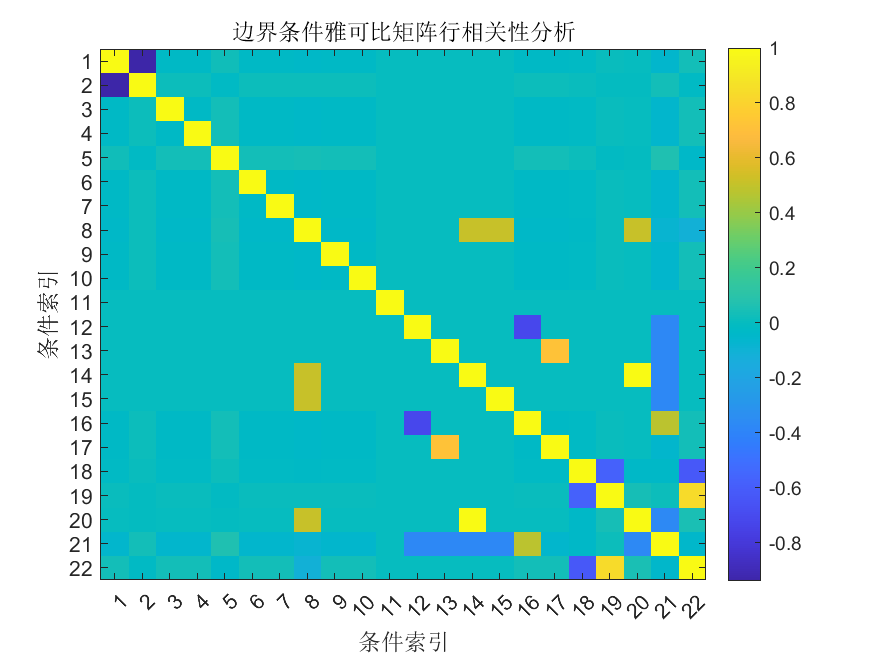
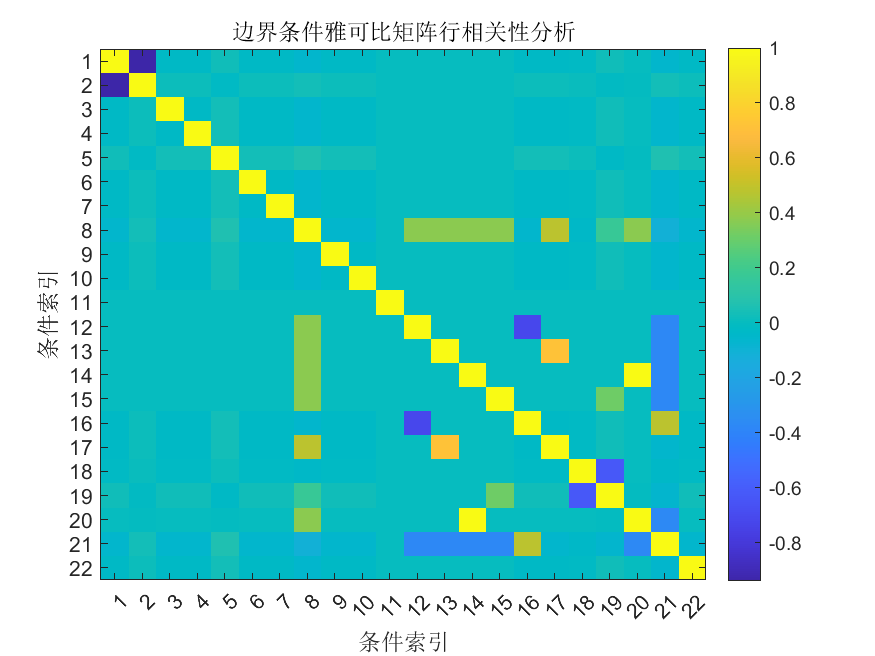
0718

diff --git a/solve_vaporization_bvp.m b/solve_vaporization_bvp.m
@@ -51,7 +51,7 @@ global GLOBAL_BVP_DEPS;
     m_dot_phys_guess = Q_rad / L_v;
     
     % 如果计算出的值太小，使用一个合理的最小值
-    min_m_dot = 1e-7; % 增大最小值，提高数值稳定性
+    min_m_dot = 1e-10; % 增大最小值，提高数值稳定性
     if m_dot_phys_guess < min_m_dot
         m_dot_phys_guess = min_m_dot;
     end
@@ -60,23 +60,22 @@ global GLOBAL_BVP_DEPS;
     p_guess_nd(1) = r_f_phys_guess / L_char; % r_f*
     p_guess_nd(2) = m_dot_phys_guess / (4 * pi * L_char * params.rho_D_gas); % Pe_m (佩克莱数)
     
+    %  fprintf('  > 猜测质量流率分子: %.3e , 无量纲分母: %.3e \n', m_dot_phys_guess, 4 * pi * L_char * params.rho_D_gas);
     % 使用固定的外部边界
     r_inf_nd = r_inf_phys_fixed / L_char; % 使用当前半径r_p进行无量纲化
-    
-    % 修改: 简化网格结构，确保区域边界的明确定义
-    % 使用更简化但清晰的网格，遵循bvp4c的多区域配置协议
-    
-    % 区域1：颗粒表面到火焰面
-    r1_points = linspace(1, p_guess_nd(1), 8); % 均匀分布点
 
-    % 区域2：火焰面到远场边界
-    r2_points = linspace(p_guess_nd(1), r_inf_nd, 8); % 均匀分布点
+    %%%%%%网格
+        % 区域1：颗粒表面到火焰面
+        r1_points = linspace(1, p_guess_nd(1), 8); % 均匀分布点
 
-    % 确保使用相同的精确火焰点值
-    r_f_exact = p_guess_nd(1);  % 使用精确的参数值，而不是可能受精度影响的数组值
+        % 区域2：火焰面到远场边界
+        r2_points = linspace(p_guess_nd(1), r_inf_nd, 8); % 均匀分布点
 
-    % 关键：明确地在数组中包含两个完全相同的火焰点，确保bvp4c识别为多区域
-    x_mesh_nd = [r1_points(1:end-1), r_f_exact, r_f_exact, r2_points(2:end)];
+        % 确保使用相同的精确火焰点值
+        r_f_exact = p_guess_nd(1);  % 使用精确的参数值，而不是可能受精度影响的数组值
+
+        % 关键：明确地在数组中包含两个完全相同的火焰点，确保bvp4c识别为多区域
+        x_mesh_nd = [r1_points(1:end-1), r_f_exact, r_f_exact, r2_points(2:end)];
 
     % 验证重复点是否完全相同
     fprintf('重复点检查: r_f_nd(1) == r_f_nd(2): %d\n', x_mesh_nd(8) == x_mesh_nd(9));
@@ -273,9 +272,9 @@ function res = bc_func_nd(ya, yb, p_nd)
 
     % 从全局设置读取松弛级别，如果未设置则使用默认值
     if isfield(deps, 'relaxation_level')
-        base_relaxation = deps.relaxation_level;
-    else
-        base_relaxation = 0.8; % 默认松弛因子
+            base_relaxation = deps.relaxation_level;
+        else
+            base_relaxation = 0.8; % 默认松弛因子
     end
     
     % 为不同类型的条件设置不同的松弛级别
@@ -354,11 +353,9 @@ function res = bc_func_nd(ya, yb, p_nd)
     % (共5个条件)
     res(6) = relaxation * (y_at_rinf_nd(1) - deps.params.ambient_temperature / deps.T_char); % BC 6: 温度等于环境温度
     res(7) = relaxation * (y_at_rinf_nd(3) - 1.0); % BC 7: CO2质量分数为1 (纯CO2环境)
-    % BC 8: 火焰面处产物质量分数之和为1（替换原来的远场Mg=0条件，避免与火焰面条件冗余）
-    % 这符合Burke-Schumann模型，火焰面处反应物完全转化为产物
-    % 左侧火焰面产物质量分数
-    y_left_products_sum = y_at_rf_left_nd(4) + y_at_rf_left_nd(5); % CO + MgO
-    res(8) = relaxation * (y_left_products_sum - 1.0);
+    
+    % BC 8: 火焰面左侧所有组分质量分数之和为1（替换为更基本的物理约束，避免与元素守恒冗余）
+    res(8) = relaxation * (sum(y_at_rf_left_nd(2:5)) - 1.0);
     res(9) = relaxation * y_at_rinf_nd(4); % BC 9: CO质量分数为0
     res(10) = relaxation * y_at_rinf_nd(5); % BC 10: MgO质量分数为0
 
@@ -366,7 +363,7 @@ function res = bc_func_nd(ya, yb, p_nd)
     
     % (3a) 状态连续性 (5个条件) - 始终使用松弛因子
     flame_relaxation = relaxation; % 使用全局松弛因子
-    for i = 1:5
+        for i = 1:5
         res(10+i) = flame_relaxation * (y_at_rf_left_nd(i) - y_at_rf_right_nd(i)); 
     end
     
@@ -412,20 +409,30 @@ function res = bc_func_nd(ya, yb, p_nd)
     % 计算CO的净通量（修复J_co_net未定义问题）
     J_co_net = J_co_right_nd - J_co_left_nd;
 
-    % 保留关键的摩尔通量平衡 (条件19-20)
-    res(19) = chem_relaxation * (J_mg_flame/mw.Mg.molar_mass - J_co2_flame/mw.CO2.molar_mass);
-    res(20) = chem_relaxation * (J_mg_flame/mw.Mg.molar_mass - J_co_net/mw.CO.molar_mass);
+    % 添加验证
+    if sign(J_co_left_nd) == sign(J_co_right_nd)
+        fprintf('警告: CO在火焰面两侧通量方向相同，J_left=%.3e, J_right=%.3e\n', J_co_left_nd, J_co_right_nd);
+    end
 
-    % 火焰面右侧所有组分和为1
-    res(21) = weak_relaxation * (y_at_rf_right_nd(2) + y_at_rf_right_nd(3) + y_at_rf_right_nd(4) + y_at_rf_right_nd(5) - 1.0);
-
-    % 替换为元素守恒条件：Mg原子在火焰面两侧的守恒
-    % Mg的总摩尔通量 = MgO的总摩尔通量 (基于元素守恒)
+    % 替换为元素守恒条件 
+    % 镁元素守恒：进入的Mg = 出去的MgO中的Mg
     J_mg_total = J_mg_flame;  % 左侧Mg通量
-    J_mgo_total = J_mgo_left_nd + J_mgo_right_nd;  % 两侧MgO通量之和
-    res(22) = weak_relaxation * (J_mg_total/mw.Mg.molar_mass - J_mgo_total/(mw.MgO.molar_mass/mw.Mg.molar_mass));
+    % 修正MgO通量计算，考虑方向性（净流出 = 右侧 - 左侧）
+    J_mgo_net = J_mgo_right_nd - J_mgo_left_nd;  % 两侧MgO净通量，与CO通量计算方式一致
+    res(19) = chem_relaxation * (J_mg_total/mw.Mg.molar_mass - J_mgo_net/(mw.MgO.molar_mass/mw.Mg.molar_mass));
+    
+    % 碳元素守恒：进入的CO2中的C = 出去的CO中的C
+    res(20) = chem_relaxation * (J_co2_flame/mw.CO2.molar_mass - J_co_net/mw.CO.molar_mass);
+    
+    % 替换为产物两侧扩散比例约束：假设产物向两侧扩散的摩尔比例相等
+    % 计算CO向右侧扩散的比例（占总CO通量的比例）
+    res(21) = weak_relaxation * (J_co_right_nd + J_co_left_nd);
+    
+    % 替换为远场温度梯度趋于零条件
+    % 这是一个物理上合理的约束：远离热源区域，温度梯度应该趋于稳定
+    res(22) = weak_relaxation * y_at_rinf_nd(6);
 
-end 
+end
 
 function y_nd = initial_guess_func_nd(x, region)
     global GLOBAL_BVP_DEPS;
@@ -763,15 +770,40 @@ function analyze_jacobian(bcfun, solinit, p_nd)
         if rank_Jy < n_eqs
             fprintf('检测到 %d 个线性相关的行!\n', n_eqs - rank_Jy);
             
-            [~, R, E] = qr(Jy');
-            small_diag = find(abs(diag(R)) < tol * max(abs(diag(R))));
-            dependent_rows = E(small_diag);
+            % 使用SVD方法更稳健地识别线性相关行
+            [U, S, ~] = svd(Jy);
+            s = diag(S);
             
-            fprintf('可能线性相关的边界条件:\n');
-            for i = 1:length(dependent_rows)
-                fprintf('  - 条件 #%d\n', dependent_rows(i));
+            % 找到接近零的奇异值对应的左奇异向量
+            small_sv_idx = find(abs(s) < tol * max(abs(s)));
+            
+            % 分析每个线性相关的组合
+            fprintf('可能线性相关的边界条件组合:\n');
+            for i = 1:length(small_sv_idx)
+                % 获取对应的左奇异向量，它表示线性组合系数
+                v = U(:, small_sv_idx(i));
+                
+                % 找出贡献最大的几个条件
+                [~, idx] = sort(abs(v), 'descend');
+                top_contributors = idx(1:min(5, length(idx))); % 选择前5个贡献最大的条件
+                
+                fprintf('  组合 #%d 主要贡献条件: ', i);
+                for j = 1:length(top_contributors)
+                    cond_idx = top_contributors(j);
+                    fprintf('#%d(系数=%.3f) ', cond_idx, v(cond_idx));
+                end
+                fprintf('\n');
+                
+                % 分析边界条件之间的关系
+                if length(top_contributors) >= 2
+                    main_cond = top_contributors(1);
+                    second_cond = top_contributors(2);
+                    ratio = v(second_cond) / v(main_cond);
+                    fprintf('    条件 #%d 约等于 %.3f * 条件 #%d\n', second_cond, -ratio, main_cond);
+                end
             end
             
+            % 仍然保留原来的相关性图分析
             figure;
             corr_matrix = corr(Jy');
             imagesc(corr_matrix);
@@ -783,6 +815,25 @@ function analyze_jacobian(bcfun, solinit, p_nd)
             saveas(gcf, 'jacobian_correlation.png');
             fprintf('雅可比矩阵相关性热图已保存到 jacobian_correlation.png\n');
         end
+        
+        % 在SVD分析后添加以下代码
+        % 识别对条件数贡献最大的元素
+        [max_row, max_col] = find(abs(Jy) == max(abs(Jy(:))));
+        fprintf('最大元素(%.3e)位于：行 %d (条件 #%d), 列 %d\n', max(abs(Jy(:))), max_row, max_row, max_col);
+
+        [min_elem_val, min_elem_idx] = min(abs(Jy(abs(Jy)>0)));  % 非零最小元素
+        [min_row, min_col] = ind2sub(size(Jy), min_elem_idx);
+        fprintf('最小非零元素(%.3e)位于：行 %d (条件 #%d), 列 %d\n', min_elem_val, min_row, min_row, min_col);
+
+        % 计算每个条件的灵敏度
+        cond_sensitivity = zeros(n_eqs, 1);
+        for i = 1:n_eqs
+            Jy_temp = Jy;
+            Jy_temp(i,:) = [];  % 移除一行
+            cond_sensitivity(i) = cond(Jy_temp);
+        end
+        [~, most_sensitive] = min(cond_sensitivity);
+        fprintf('移除条件 #%d 后条件数最小(%.3e)\n', most_sensitive, cond_sensitivity(most_sensitive));
         
     catch ME
         fprintf('雅可比矩阵分析过程中出错: %s\n', ME.message);
